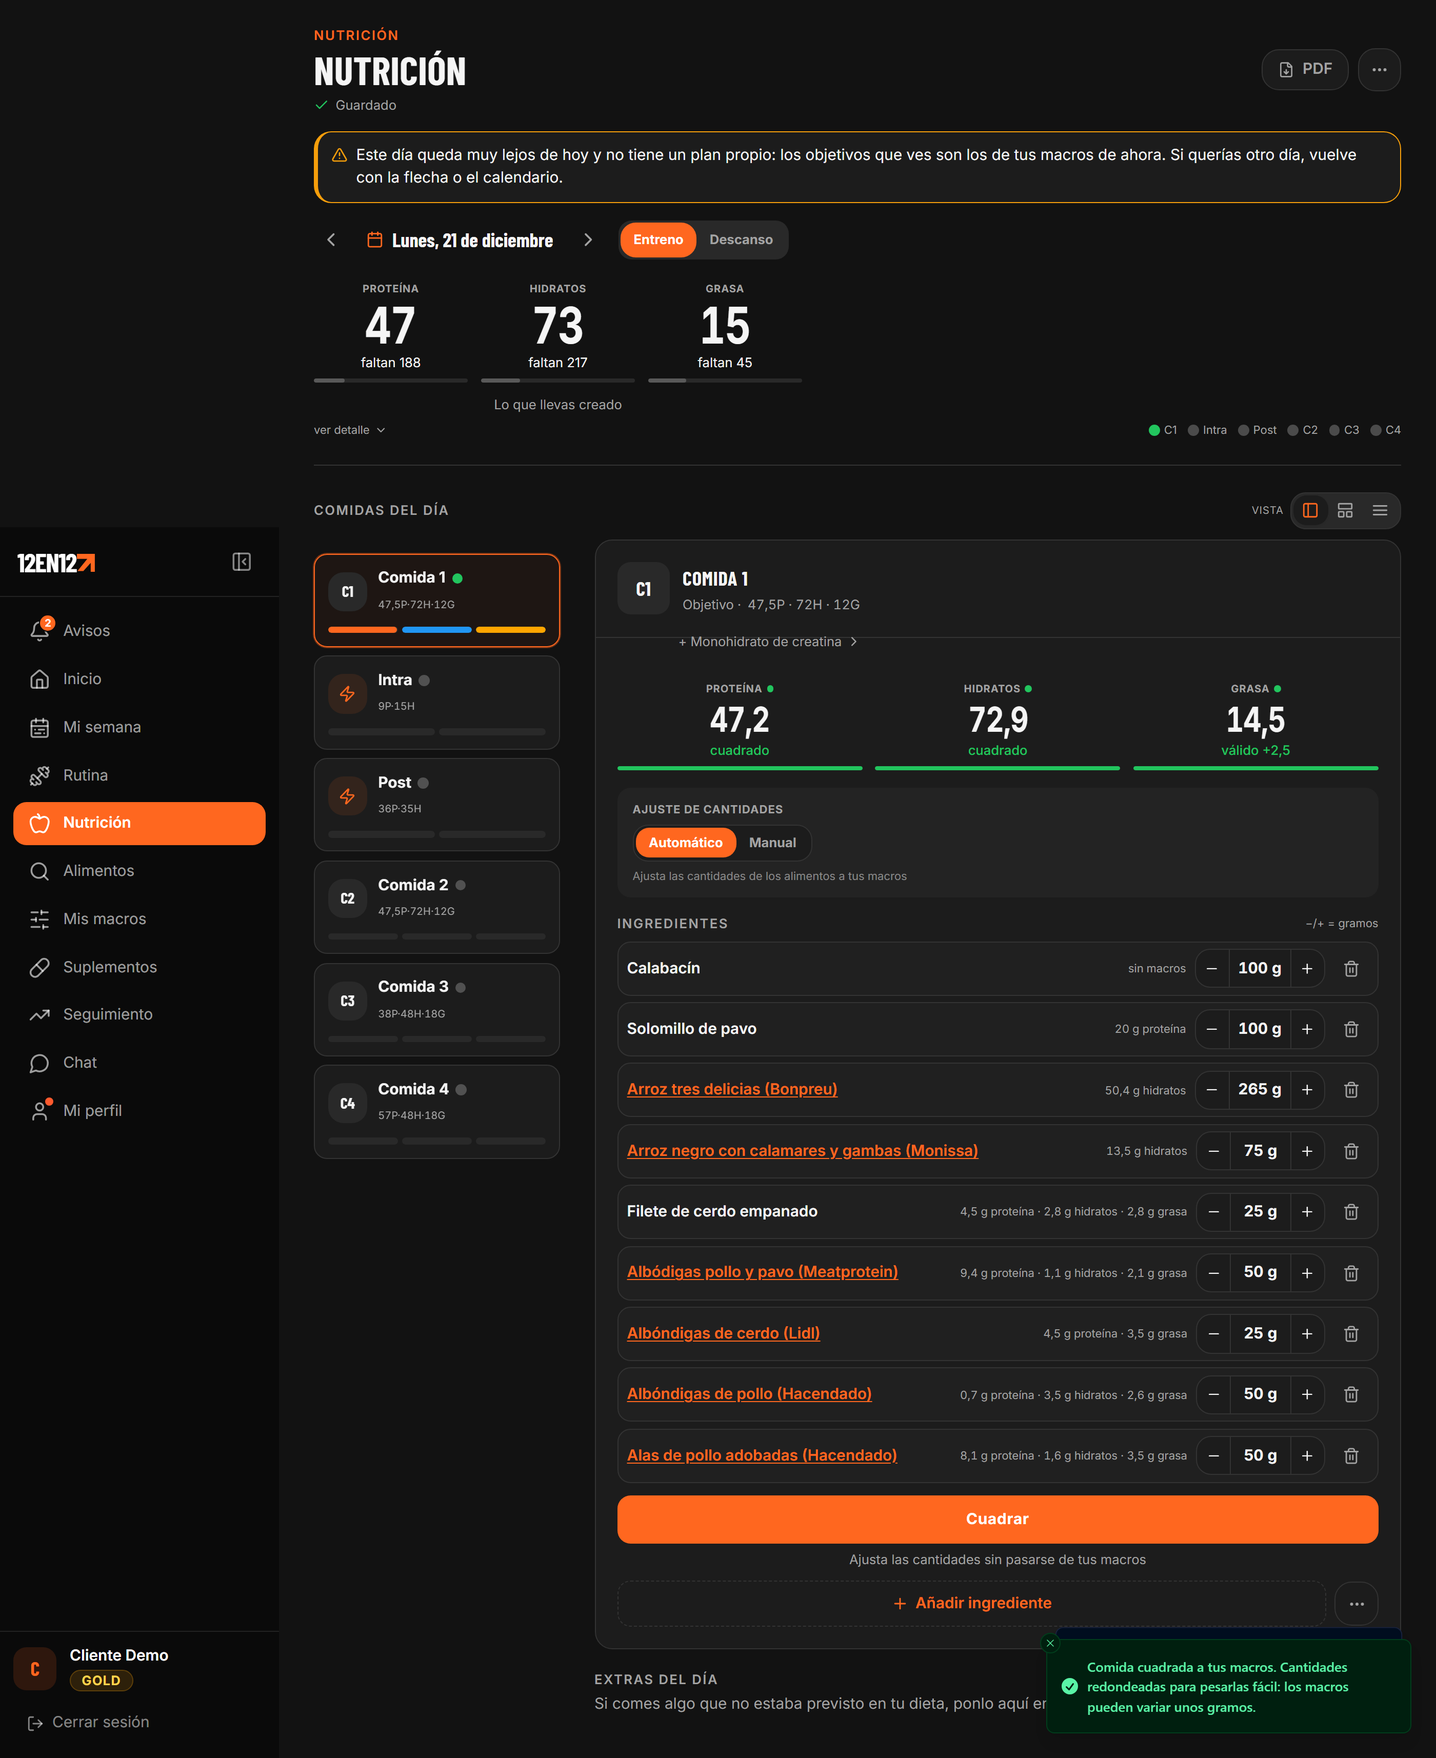
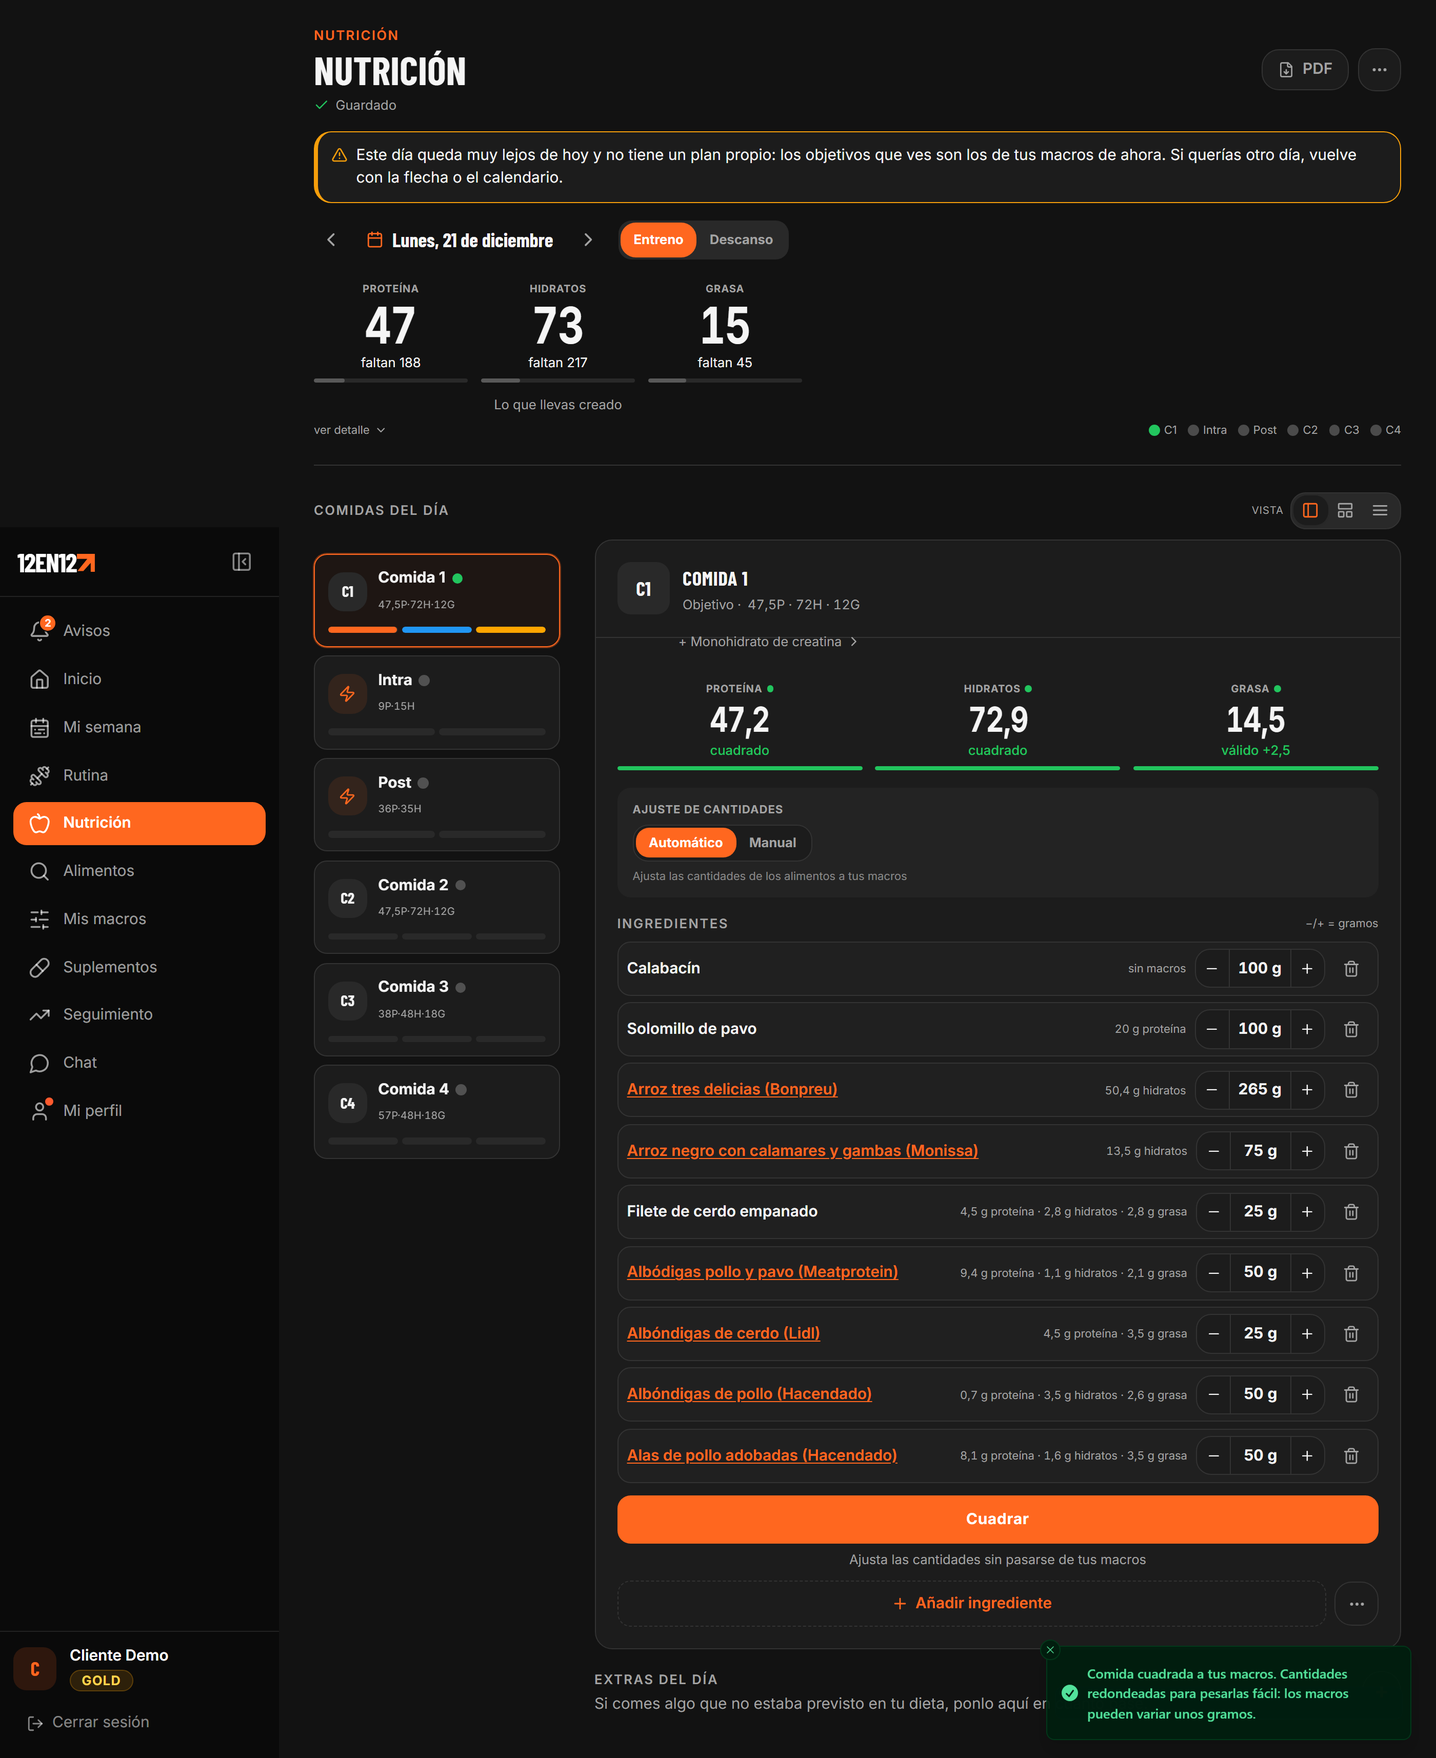
Lo de quitar se pregunta UNA vez, marcando varios, con la cuenta a la vista
Francisco, probandolo: «va haciendo muchas veces las preguntas, supongo que lo hara hasta que
cuadre pero es tedioso».

Y era verdad: su comida pedia cinco dialogos seguidos, uno por alimento, y solo al cerrar el
quinto se enteraba de que ya cuadraba. La decision sigue siendo suya -- eso no se toca -- pero
cabia entera en una pantalla.

Ahora la pregunta de quitar es de marcar varios, y el pie lleva la cuenta a cada clic:

    Hay que quitar unos 38,2 g de grasa.
    [x] Almendras        -> Con eso aun sobrarian 27,6 g de grasa.
    [x] Bacon            -> Con eso aun sobrarian 17,1 g de grasa.
    [x] Brochetas        -> Con eso aun sobrarian 11,9 g de grasa.
    [x] Aceite de oliva  -> Con eso aun sobrarian 6,9 g de grasa.
    [x] Carne picada     -> Con eso ya cuadra.
                                                      [Quitar los marcados]

Asi se ve de un vistazo cuantos hacen falta, en vez de descubrirlo a golpes de dialogo. La
misma comida: de CINCO preguntas a UNA, y acaba igual de cuadrada (47,2 P cuadrado / 72,9 H
cuadrado / 14,5 G valido).

Tres detalles que salieron al montarlo:
- Cada linea decia «quitandolo aun sobrarian N», que es el numero de quitar ESE SOLO. En
  cuanto marcas dos, cada linea dice una cosa y el pie otra. Fuera: la linea dice lo que pone
  el alimento y la cuenta la lleva el pie, que es el que sabe lo que hay marcado.
- La lista de quitar admite mas opciones que la de bajar (9 contra 5): con una lista corta el
[…]

Changed region(s): [[0.7146, 0.9052, 0.9943, 0.9988]]

diff --git a/frontend/src/components/ui/confirm.jsx b/frontend/src/components/ui/confirm.jsx
@@ -16,6 +16,11 @@
  * confirm devuelve true/false; prompt devuelve el texto o null si se cancela; elegir
  * devuelve el `valor` de la opción elegida, o null si se cierra sin elegir.
  *
+ * Con `multiple: true`, elegir devuelve un ARRAY de valores y las opciones se marcan y se
+ * desmarcan hasta darle al botón. Se le puede pasar `resumen(seleccionados)`, que se pinta
+ * abajo y se recalcula a cada clic: es lo que convierte cinco preguntas seguidas en una sola
+ * («aún sobrarían 27,6 g» → «con eso ya cuadra»).
+ *
  * NINGUNA OPCIÓN VIENE MARCADA (Jesús, 31-08-2026, sobre de dónde bajar un macro: «ni
  * siquiera que sugiera»). Marcar una es sugerirla, y lo que se pregunta aquí es justo lo
  * que la app no puede saber.
@@ -40,6 +45,7 @@ export const useConfirm = () => {
 export const ConfirmProvider = ({ children }) => {
     const [dialogo, setDialogo] = useState(null);   // null = cerrado
     const [texto, setTexto] = useState('');
+    const [marcados, setMarcados] = useState([]);   // solo en elegir múltiple
     const resolver = useRef(null);
     const location = useLocation();
     const oscuro = location.pathname.startsWith('/admin');
@@ -47,6 +53,7 @@ export const ConfirmProvider = ({ children }) => {
     const abrir = useCallback((opts, modo) => new Promise((resolve) => {
         resolver.current = resolve;
         setTexto(opts.defaultValue || '');
+        setMarcados([]);
         setDialogo({ modo, ...opts });
     }), []);
 
@@ -61,8 +68,13 @@ export const ConfirmProvider = ({ children }) => {
 
     const esPrompt = dialogo?.modo === 'prompt';
     const esElegir = dialogo?.modo === 'elegir';
-    const puedeConfirmar = !esPrompt || dialogo?.optional || texto.trim().length > 0;
+    const esVarios = esElegir && dialogo?.multiple;
+    const puedeConfirmar = esVarios
+        ? marcados.length > 0
+        : (!esPrompt || dialogo?.optional || texto.trim().length > 0);
     const nada = esPrompt || esElegir ? null : false;   // qué devuelve cerrar sin elegir
+    const alternar = (valor) => setMarcados((ya) =>
+        ya.includes(valor) ? ya.filter(v => v !== valor) : [...ya, valor]);
 
     return (
         <ConfirmContext.Provider value={{ confirm, prompt, elegir }}>
@@ -92,23 +104,48 @@ export const ConfirmProvider = ({ children }) => {
                             />
                         )}
                         {esElegir && (
-                            <div className="space-y-2">
-                                {(dialogo.opciones || []).map((o) => (
-                                    <button key={o.valor} type="button"
-                                        onClick={() => cerrar(o.valor)}
-                                        data-testid={`elegir-${o.valor}`}
-                                        className={`w-full text-left rounded-xl border p-3 transition-colors ${oscuro
-                                            ? 'border-[#333] hover:border-[#FF671F] hover:bg-[#FF671F]/10'
-                                            : 'border-border hover:border-brand hover:bg-brand/5'}`}>
-                                        <span className="block text-sm font-semibold">{o.titulo}</span>
-                                        {o.detalle && (
-                                            <span className={`block text-xs mt-0.5 ${oscuro ? 'text-white/60' : 'text-muted-foreground'}`}>
-                                                {o.detalle}
+                            // La lista scrollea: con catorce alimentos la ventana no cabía y el
+                            // botón de confirmar se salía por abajo de la pantalla.
+                            <div className="space-y-2 max-h-[55vh] overflow-y-auto">
+                                {(dialogo.opciones || []).map((o) => {
+                                    const marcado = marcados.includes(o.valor);
+                                    return (
+                                        <button key={o.valor} type="button"
+                                            onClick={() => (esVarios ? alternar(o.valor) : cerrar(o.valor))}
+                                            data-testid={`elegir-${o.valor}`}
+                                            aria-pressed={esVarios ? marcado : undefined}
+                                            className={`w-full text-left rounded-xl border p-3 transition-colors flex gap-3 items-start ${
+                                                marcado
+                                                    ? (oscuro ? 'border-[#FF671F] bg-[#FF671F]/10' : 'border-brand bg-brand/5')
+                                                    : (oscuro
+                                                        ? 'border-[#333] hover:border-[#FF671F] hover:bg-[#FF671F]/10'
+                                                        : 'border-border hover:border-brand hover:bg-brand/5')}`}>
+                                            {esVarios && (
+                                                <span className={`mt-0.5 w-4 h-4 rounded border flex-shrink-0 flex items-center justify-center text-[10px] font-bold ${
+                                                    marcado
+                                                        ? 'bg-[#FF671F] border-[#FF671F] text-white'
+                                                        : (oscuro ? 'border-[#555]' : 'border-border')}`}>
+                                                    {marcado ? '✓' : ''}
+                                                </span>
+                                            )}
+                                            <span className="min-w-0">
+                                                <span className="block text-sm font-semibold">{o.titulo}</span>
+                                                {o.detalle && (
+                                                    <span className={`block text-xs mt-0.5 ${oscuro ? 'text-white/60' : 'text-muted-foreground'}`}>
+                                                        {o.detalle}
+                                                    </span>
+                                                )}
                                             </span>
-                                        )}
-                                    </button>
-                                ))}
+                                        </button>
+                                    );
+                                })}
                             </div>
+                        )}
+                        {esVarios && dialogo.resumen && (
+                            <p className={`text-sm font-semibold ${oscuro ? 'text-white' : 'text-foreground'}`}
+                                data-testid="elegir-resumen">
+                                {dialogo.resumen(marcados)}
+                            </p>
                         )}
                         <DialogFooter>
                             <Button variant="outline"
@@ -117,11 +154,13 @@ export const ConfirmProvider = ({ children }) => {
                                 data-testid="confirm-cancel">
                                 {dialogo.cancelLabel || 'Cancelar'}
                             </Button>
-                            {/* En «elegir» el botón de aceptar no existe: cada opción es su propio
-                                botón, así que un «Confirmar» aparte no confirmaría nada. */}
-                            {!esElegir && (
+                            {/* En «elegir» de uno el botón de aceptar no existe: cada opción es su
+                                propio botón, así que un «Confirmar» aparte no confirmaría nada.
+                                En el de varios sí hace falta: hay que poder marcar y desmarcar
+                                antes de decidir. */}
+                            {(!esElegir || esVarios) && (
                                 <Button
-                                    onClick={() => cerrar(esPrompt ? texto.trim() : true)}
+                                    onClick={() => cerrar(esVarios ? marcados : (esPrompt ? texto.trim() : true))}
                                     disabled={!puedeConfirmar}
                                     className={dialogo.danger
                                         ? 'bg-red-600 hover:bg-red-700 text-white'

diff --git a/frontend/src/pages/NutritionPage.jsx b/frontend/src/pages/NutritionPage.jsx
@@ -2221,10 +2221,12 @@ const NutritionPage = () => {
                 titulo: `${o.nombre} · ${num1(o.cantidad_ahora)} g`,
                 // Lo que importa aquí no es lo que pone ahora, sino lo que seguiría poniendo
                 // aunque se bajara al mínimo: eso es lo que de verdad se lleva quitarlo.
-                detalle: `${num1(o.aporta_en_el_minimo)} g de ${macro} aunque lo bajes al mínimo`
-                    + (o.sobraria_aun > 4
-                        ? ` → quitándolo aún sobrarían ${num1(o.sobraria_aun)}`
-                        : ' → quitándolo ya cuadra'),
+                //
+                // Y NADA DE «quitándolo aún sobrarían N» EN CADA LÍNEA: ese número es el de
+                // quitar ese solo, así que en cuanto marcas dos, cada línea dice una cosa y
+                // el pie otra. La cuenta la lleva el pie, que es el que sabe lo que hay
+                // marcado.
+                detalle: `${num1(o.aporta_en_el_minimo)} g de ${macro} aunque lo bajes al mínimo`,
             }
             : o.modo === 'proporcional'
             ? {
@@ -2243,20 +2245,44 @@ const NutritionPage = () => {
                     + ` → se quedaría en ${num1(o.queda_en)} g`
                     + (o.sobraria_aun > 4 ? `, y aún sobrarían ${num1(o.sobraria_aun)}` : ''),
             }));
+        // QUITAR SE PREGUNTA UNA SOLA VEZ, MARCANDO VARIOS (Francisco, 31-08-2026).
+        //
+        // «Va haciendo muchas veces las preguntas, supongo que lo hará hasta que cuadre pero
+        // es tedioso.» Y tenía razón: su comida pedía cinco diálogos seguidos, uno por
+        // alimento. La decisión es la misma -- la toma él, no la app --, pero cabe entera en
+        // una pantalla: se marcan los que sobran y el pie va diciendo cuánto queda por quitar,
+        // así se ve de un vistazo cuántos hacen falta en vez de descubrirlo a golpes.
+        if (decision.tipo === 'quitar') {
+            const enElMinimo = new Map((decision.opciones || [])
+                .map(o => [`quitar-${o.alimento_id}`, o.aporta_en_el_minimo || 0]));
+            const marcados = await elegir({
+                title: decision.titulo,
+                description: 'Bajar las cantidades ya no da más de sí. Cuadrar no quita nada por su cuenta: eliges tú.',
+                opciones,
+                multiple: true,
+                resumen: (sel) => {
+                    const fuera = sel.reduce((s, v) => s + (enElMinimo.get(v) || 0), 0);
+                    const queda = (decision.sobra || 0) - fuera;
+                    if (!sel.length) return `Hay que quitar unos ${num1(decision.sobra)} g de ${macro}.`;
+                    return queda > 4
+                        ? `Con eso aún sobrarían ${num1(queda)} g de ${macro}.`
+                        : 'Con eso ya cuadra.';
+                },
+                confirmLabel: 'Quitar los marcados',
+                cancelLabel: 'Dejarlo como está',
+            });
+            if (!marcados || !marcados.length) return null;
+            return { modo: 'quitar',
+                     alimento_ids: marcados.map(v => Number(v.slice(7))) };
+        }
         const elegido = await elegir({
             title: decision.titulo,
-            description: decision.tipo === 'quitar'
-                // Por qué se pregunta esto y no «de dónde bajo»: si no, parece un capricho.
-                ? 'Bajar las cantidades ya no da más de sí. Cuadrar no quita nada por su cuenta: eliges tú.'
-                : 'Lo que elijas es lo único que baja: el resto se queda con los gramos que le pusiste.',
+            description: 'Lo que elijas es lo único que baja: el resto se queda con los gramos que le pusiste.',
             opciones,
             cancelLabel: 'Dejarlo como está',
         });
         if (!elegido) return null;
         if (elegido === 'proporcional') return { modo: 'proporcional' };
-        if (elegido.startsWith('quitar-')) {
-            return { modo: 'quitar', alimento_id: Number(elegido.slice(7)) };
-        }
         return { modo: 'solo', alimento_id: Number(elegido) };
     };
 
@@ -2323,9 +2349,10 @@ const NutritionPage = () => {
                 // toca; si ya se habían quitado cosas, se guarda lo hecho hasta aquí.
                 if (!respuesta) { if (!hizoAlgo) return; break; }
                 if (respuesta.modo === 'quitar') {
-                    const fuera = alimentos.find(a => a.alimento_id === respuesta.alimento_id);
-                    if (fuera) quitados.push(fuera.nombre);
-                    alimentos = alimentos.filter(a => a.alimento_id !== respuesta.alimento_id);
+                    const fuera = new Set(respuesta.alimento_ids || []);
+                    alimentos.filter(a => fuera.has(a.alimento_id))
+                        .forEach(a => quitados.push(a.nombre));
+                    alimentos = alimentos.filter(a => !fuera.has(a.alimento_id));
                     hizoAlgo = true;
                 } else {
                     siguienteAjuste = respuesta;

diff --git a/_guia/_verificar_cuadra_hasta_cuadrar_3108.js b/_guia/_verificar_cuadra_hasta_cuadrar_3108.js
@@ -84,8 +84,8 @@ const pide = async (ruta, opciones = {}) => {
     await p.locator('[data-testid="cuadrar-C1"]').first().click();
     await p.waitForTimeout(3500);
 
-    // Se contesta siempre la PRIMERA opción, que es la que más quita. Un cliente elegiría
-    // otra cosa; lo que se prueba aquí es que la app sigue preguntando y acaba cuadrando.
+    // En la pregunta de QUITAR se marcan varios de una vez: se van marcando hasta que el pie
+    // dice que ya cuadra, y se confirma. Es lo que haría el cliente leyendo ese contador.
     let vueltas = 0;
     while (vueltas < 20) {
         const dlg = p.locator('[data-testid="confirm-dialog"]').first();
@@ -93,13 +93,34 @@ const pide = async (ruta, opciones = {}) => {
         vueltas++;
         const titulo = (await dlg.locator('h2, [class*="DialogTitle"]').first().innerText()
             .catch(async () => (await dlg.innerText()).split('\n')[0])).replace(/\s+/g, ' ').trim();
-        const primera = dlg.locator('[data-testid^="elegir-"]').first();
-        const queElijo = (await primera.innerText().catch(() => '?')).replace(/\s+/g, ' ').trim();
-        console.log(`\n  vuelta ${vueltas}: ${titulo}`);
-        console.log(`     elijo -> ${queElijo}`);
+        console.log(`\n  pregunta ${vueltas}: ${titulo}`);
         if (vueltas === 1) await dlg.screenshot({ path: `${CARPETA}/1_que_quito.png` }).catch(() => {});
-        await primera.click();
-        await p.waitForTimeout(3500);
+
+        const resumen = dlg.locator('[data-testid="elegir-resumen"]');
+        if (!(await resumen.count())) {           // pregunta de una sola respuesta
+            const primera = dlg.locator('[data-testid^="elegir-"]').first();
+            console.log('     elijo ->', (await primera.innerText()).replace(/\s+/g, ' ').trim());
+            await primera.click();
+            await p.waitForTimeout(3500);
+            continue;
+        }
+        console.log('     al abrir:', (await resumen.innerText()).replace(/\s+/g, ' ').trim());
+        const opciones = await dlg.locator('[data-testid^="elegir-"]').all();
+        let marcados = 0;
+        for (const o of opciones) {
+            const texto = (await o.innerText()).replace(/\s+/g, ' ').trim();
+            await o.click();
+            marcados++;
+            const ahora = (await resumen.innerText()).replace(/\s+/g, ' ').trim();
+            console.log(`     marco ${texto.split('·')[0].trim()} -> ${ahora}`);
+            if (ahora.includes('ya cuadra')) break;
+        }
+        if (vueltas === 1) {
+            await dlg.screenshot({ path: `${CARPETA}/1b_marcados.png` }).catch(() => {});
+        }
+        console.log(`     confirmo con ${marcados} marcados`);
+        await dlg.locator('[data-testid="confirm-ok"]').click();
+        await p.waitForTimeout(4000);
     }
     console.log(`\n  (${vueltas} preguntas en total)`);
 

diff --git a/backend/core/de_donde_bajo.py b/backend/core/de_donde_bajo.py
@@ -55,6 +55,11 @@ SOBRA_MINIMA = 4.0
 # pregunta: es un muro. Salen los que más ponen del macro, que son los que deciden.
 MAXIMO_OPCIONES = 5
 
+# La de quitar admite más, porque se marcan varios de una vez y hacen falta los suficientes
+# para llegar a cuadrar sin tener que volver a preguntar. Con una lista corta, el cliente
+# marca los cinco, sigue sobrando y le vuelve a salir el diálogo: justo lo que molestaba.
+MAXIMO_OPCIONES_QUITAR = 9
+
 
 def _g(n):
     """Gramos como se escriben aquí: sin decimal si es redondo, y con coma si no."""
@@ -116,7 +121,7 @@ def que_se_puede_quitar(aportes, macro):
     """
     candidatos = [a for a in aportes if _de(a, "suelo", macro) > 0.5]
     candidatos.sort(key=lambda a: _de(a, "suelo", macro), reverse=True)
-    return candidatos[:MAXIMO_OPCIONES]
+    return candidatos[:MAXIMO_OPCIONES_QUITAR]
 
 
 def bajar_no_llega(aportes, objetivo, macro):
